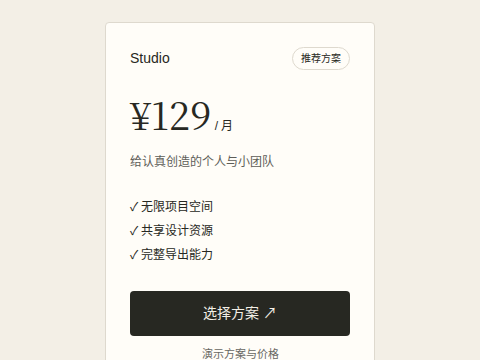
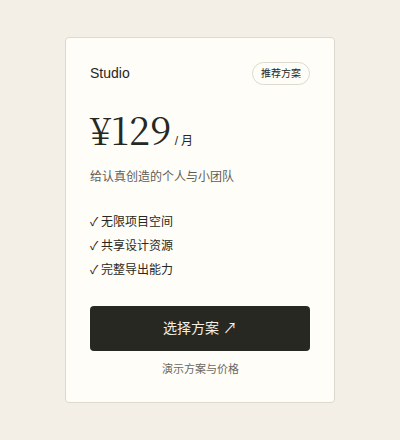
feat: use modular resource cards and responsive experience canvases

diff --git a/app.js b/app.js
@@ -164,11 +164,11 @@ function card(r) {
     r.type === "page"
       ? `${l(getCase(r.caseId).name).split(" · ")[0]} · ${l(r.name)}`
       : l(r.name);
-  return `<article class="asset-card card" data-resource="${key(r)}" data-layout="${inline ? "compact" : "wide"}" data-experience="${framing.mode}" data-cover-layout="${framing.layout}" style="--inline-height:${framing.inlineHeight}px">
+  return `<article class="asset-card card" data-resource="${key(r)}" data-layout="${framing.layout}" data-experience="${framing.mode}" data-cover-layout="${framing.layout}">
   <div class="asset-preview"><img src="${esc(r.cover)}" alt="${esc(name)}" loading="lazy" width="${framing.width}" height="${framing.height}">${inline ? `<div class="asset-live" data-live="${key(r)}"></div><div class="preview-state" role="status"><span>${t("正在加载体验…", "Loading experience…")}</span><button type="button" class="button" data-retry-preview hidden>${t("重试", "Retry")}</button></div>` : `<a class="asset-cover-link" data-open="${key(r)}" href="${href(r.type, r.id)}" aria-label="${t("打开体验", "Open experience")} ${esc(name)}"><span>${icon("arrow-up-right")}${t("打开体验", "Open experience")}</span></a>`}</div>
   <div class="asset-caption"><a data-open="${key(r)}" data-details href="${href(r.type, r.id, { panel: "details" })}">${esc(name)}</a><span class="asset-libraries">${r.libraryIds.map((id) => `<span class="library-badge" title="${esc(libraries[id].name)}">${esc(libraries[id].name)}</span>`).join("")}</span></div>
-  <p class="asset-description" id="description-${r.id}">${esc(l(r.description))}</p>${tagLinks(r)}
-  <div class="asset-actions"><button class="button" data-card-prompt="${key(r)}">${icon("copy")}${t("复制提示词", "Copy prompt")}</button><a class="button" data-open="${key(r)}" data-details href="${href(r.type, r.id, { panel: "details" })}">${t("查看详情", "Details")}</a>${saveButton(r)}</div></article>`;
+  <p class="asset-description" id="description-${r.id}" title="${esc(l(r.description))}">${esc(l(r.description))}</p><div class="asset-footer">${tagLinks(r)}
+  <div class="asset-actions"><button class="icon-button" data-card-prompt="${key(r)}" aria-label="${t("复制提示词", "Copy prompt")}" title="${t("复制提示词", "Copy prompt")}">${icon("copy")}</button><a class="icon-button" data-open="${key(r)}" data-details href="${href(r.type, r.id, { panel: "details" })}" aria-label="${t("查看详情", "Details")}" title="${t("查看详情", "Details")}">${icon("panel-right")}</a>${saveButton(r)}</div></div></article>`;
 }
 function typeCount(v) {
   return v === "explore"
@@ -665,7 +665,7 @@ function viewer(r) {
     parameter[4] = previewValues.get(chosen.id);
   return `<article class="resource-page"><div class="market-viewer full-viewer experience-viewer"><header class="market-viewer-toolbar"><div class="viewer-leading"><button class="icon-button" data-close-viewer aria-label="${t("返回资源市场", "Back to market")}">${icon("arrow-left")}</button><div class="viewer-title"><h1 tabindex="-1">${esc(l(r.type === "case" ? r.name : chosen.name))}</h1><small>${esc(resourceSource(chosen).name)}</small></div>${c && r.type !== "component" ? `<select data-shell-control id="preview-page" aria-label="${t("预览页面", "Preview page")}">${c.pages.map((p) => `<option value="${p.id}" ${p.id === chosen.id ? "selected" : ""}>${esc(l(p.name))}</option>`).join("")}</select>` : ""}</div><div class="viewer-tools"><button class="icon-button" data-share aria-label="${t("复制分享链接", "Copy share link")}">${icon("link")}</button><span data-shell-appearance></span>${language(true)}<button class="icon-button" data-close-viewer aria-label="${t("关闭预览", "Close preview")}">${icon("x")}</button></div></header>
   <div class="experience-actions"><div class="full-resource-tabs" role="tablist" aria-label="${t("资源内容", "Resource content")}"><button data-full-tab data-tab="notes" role="tab" aria-selected="${tab !== "code"}" aria-controls="preview-panel">${t("预览", "Preview")}</button><button data-full-tab data-tab="code" role="tab" aria-selected="${tab === "code"}" aria-controls="full-code">${t("代码", "Code")}</button></div><button class="button" data-toggle-details aria-controls="inspector" aria-expanded="false">${t("详情", "Details")}</button><button class="button" data-copy-resource-prompt>${icon("copy")}${t("复制提示词", "Copy prompt")}</button></div><div class="market-detail-layout"><div class="full-preview-column"><section class="market-preview-panel" id="preview-panel" data-layout="${framing.layout}" style="--stage-height:${framing.stageHeight}px"><div class="preview-toolbar"><span class="preview-label">${t("交互预览", "Live preview")}</span><div class="viewer-devices">${[
-    ["0", "monitor", t("桌面画布", "Desktop canvas")],
+    ["0", "monitor", t("自适应画布", "Responsive canvas")],
     ["768", "tablet", "768px"],
     ["375", "smartphone", "375px"],
   ]
@@ -683,7 +683,7 @@ function viewer(r) {
 function showViewer(r) {
   stopAllLive();
   tab = route.params.get("tab") === "code" ? "code" : "notes";
-  width = innerWidth < 600 ? 375 : innerWidth < 1024 ? 768 : 0;
+  width = 0;
   fit = true;
   document.body.classList.add("is-experience");
   document.querySelector("#footer").hidden = true;
@@ -807,10 +807,9 @@ function scalePreview() {
     frame = document.querySelector("#case-preview"),
     canvas = document.querySelector("#preview-canvas");
   if (!viewport || !selected || !viewport.clientWidth) return;
-  const framing = resourcePresentation(selected, "detail"),
-    isSmall = framing.layout === "compact";
-  const desired =
-    width || (isSmall ? viewport.clientWidth : selected.preview.width);
+  // Default to the available viewport at native scale. Only an explicit
+  // device selection emulates a fixed CSS width and may scale down to fit.
+  const desired = width || viewport.clientWidth;
   const scale = fit ? Math.min(1, viewport.clientWidth / desired) : 1;
   // The iframe owns content scrolling. Its scaled height fits the available stage.
   const h = viewport.clientHeight / scale;

diff --git a/market.css b/market.css
@@ -2872,6 +2872,8 @@ dialog {
 
 /* Interactive resource gallery. Information and actions never cover the demo. */
 .library-page .market-grid {
+  container-type: inline-size;
+  --preview-unit: calc((100cqw - 24px) / 3);
   grid-template-columns: repeat(3, minmax(0, 1fr));
   align-items: start;
 }
@@ -2882,10 +2884,7 @@ dialog {
   width: 100%;
   min-width: 0;
   aspect-ratio: auto;
-  height: 360px;
-}
-.library-page .asset-card[data-experience="inline"] .asset-preview {
-  height: var(--inline-height);
+  height: var(--preview-unit);
 }
 .library-page .asset-preview > img {
   object-fit: contain;
@@ -2937,10 +2936,11 @@ dialog {
 }
 .library-page .asset-description {
   opacity: 1;
-  min-height: 40px;
-  height: 40px;
+  min-height: 20px;
+  height: 20px;
   line-height: 20px;
-  margin: 8px 2px;
+  margin: 4px 2px 6px;
+  -webkit-line-clamp: 1;
 }
 .resource-tags {
   display: flex;
@@ -2958,13 +2958,15 @@ dialog {
   border-radius: 999px;
   color: var(--muted-text);
 }
-.asset-card > .resource-tags {
+.asset-footer > .resource-tags {
   flex-wrap: nowrap;
+  align-items: center;
+  min-width: 0;
   height: 32px;
   overflow-x: auto;
   scrollbar-width: none;
 }
-.asset-card > .resource-tags a {
+.asset-footer > .resource-tags a {
   flex-shrink: 0;
   white-space: nowrap;
 }
@@ -2972,46 +2974,65 @@ dialog {
   color: var(--ink);
   background: var(--surface);
 }
+.asset-footer {
+  display: flex;
+  align-items: center;
+  justify-content: space-between;
+  gap: 8px;
+  height: 36px;
+}
+.asset-footer .resource-tags a {
+  min-height: 24px;
+  padding: 2px 6px;
+}
 .asset-actions {
   display: flex;
-  gap: 6px;
+  gap: 2px;
   align-items: center;
-  margin-top: 10px;
-  height: 44px;
+  flex-shrink: 0;
 }
-.asset-actions .button {
-  font-size: 12px;
-  padding-inline: 9px;
-  min-height: 36px;
-  white-space: nowrap;
-}
+.asset-actions .icon-button,
 .asset-actions .asset-save {
   position: static;
   opacity: 1;
-  margin-left: auto;
+  margin: 0;
   flex-shrink: 0;
-  width: 36px;
-  height: 36px;
-  min-width: 36px;
-  min-height: 36px;
+  width: 32px;
+  height: 32px;
+  min-width: 32px;
+  min-height: 32px;
+  border: 0;
+  background: transparent;
+}
+.asset-actions .icon-button:hover,
+.asset-actions .asset-save:hover {
+  background: var(--surface);
 }
 #inspector > .resource-tags {
   padding: 0 20px 16px;
 }
 @media (max-width: 1199px) {
   .library-page .market-grid {
+    --preview-unit: calc((100cqw - 12px) / 2);
     grid-template-columns: repeat(2, minmax(0, 1fr));
   }
 }
 @media (max-width: 599px) {
   .library-page .market-grid {
+    --preview-unit: 100cqw;
     grid-template-columns: minmax(0, 1fr);
   }
   .library-page .asset-card[data-layout="wide"] {
     grid-column: auto;
   }
-  .asset-actions .button,
+  .asset-footer {
+    height: 44px;
+  }
+  .asset-actions .icon-button,
   .asset-actions .asset-save {
+    width: 44px;
+    height: 44px;
+    min-width: 44px;
     min-height: 44px;
   }
 }

diff --git a/presentation.js b/presentation.js
@@ -1,6 +1,7 @@
 import discovery from "./content/discovery.json" with { type: "json" };
 // Capability overrides describe demo space, not the upstream component's type.
 const canvasComponents = new Set([
+  "folio-card",
   "fluent-dialog",
   "fluent-toast",
   "antd-form",
@@ -9,12 +10,14 @@ const canvasComponents = new Set([
   "shadcn-admin-user-dialog",
   "shadcn-admin-settings-form",
   "shadcn-admin-filter-toolbar",
+  "shadcn-admin-trend-chart",
 ]);
 export function experienceMode(resource) {
   if (resource.preview.mode) return resource.preview.mode;
   return resource.type !== "component" ||
     resource.preview.width >= 900 ||
     canvasComponents.has(resource.id) ||
+    resource.kind === "pricing" ||
     resource.kind === "dialog" ||
     resource.id.endsWith("-dialog")
     ? "canvas"
@@ -27,18 +30,24 @@ export function resourcePresentation(resource, context = "card") {
   const mode = experienceMode(resource);
   const canvasCard = context === "card" && mode === "canvas";
   const control = !wide && resource.category === "buttons";
+  const tallCard = resource.kind === "pricing" || resource.id === "folio-card";
+  const canvasWidth = tallCard
+    ? 400
+    : resource.id === "shadcn-admin-trend-chart"
+      ? 640
+      : 960;
+  const canvasHeight = tallCard
+    ? 440
+    : resource.id === "shadcn-admin-trend-chart"
+      ? 480
+      : 640;
   return {
     mode,
-    inlineHeight:
-      resource.category === "cards" ||
-      resource.id === "shadcn-admin-trend-chart"
-        ? 440
-        : 360,
     layout: wide ? "wide" : "compact",
     width: wide
       ? resource.preview.width
       : canvasCard
-        ? 960
+        ? canvasWidth
         : control && context === "card"
           ? 320
           : context === "card"
@@ -47,7 +56,7 @@ export function resourcePresentation(resource, context = "card") {
     height: wide
       ? resource.preview.height
       : canvasCard
-        ? 640
+        ? canvasHeight
         : control && context === "card"
           ? 240
           : context === "card"

diff --git a/components.css b/components.css
@@ -4,6 +4,7 @@
 .theme-forma{--s-bg:#f3f3ef;--s-surface:#fff;--s-text:#191b18;--s-accent:#d2ed4e;--s-line:#c4c6be;--s-radius:0px;--s-on:#191b18;--s-font:Arial,Helvetica,sans-serif}
 .theme-bloom{--s-bg:#f7f5ed;--s-surface:#fffef9;--s-text:#244536;--s-accent:#305744;--s-line:#dce1d5;--s-radius:18px;--s-on:#fff;--s-font:Georgia,serif}
 .sample{background:var(--s-bg);color:var(--s-text);padding:32px;min-height:230px;display:flex;align-items:center;justify-content:center;font:14px/1.5 'Segoe UI','Microsoft YaHei',sans-serif;width:100%;box-sizing:border-box}
+.inline-preview .sample{padding:12px}
 .sample *{box-sizing:border-box}.sample button,.sample input{font:inherit}.sample button,.sample a{touch-action:manipulation}.sample button{cursor:pointer}.sample a{color:inherit}.sample :focus-visible{outline:2px solid var(--s-accent);outline-offset:4px}
 .s-button{display:inline-flex;align-items:center;justify-content:center;gap:16px;border:1px solid transparent;background:var(--s-accent);color:var(--s-on);border-radius:var(--s-radius);padding:11px 18px;min-height:42px;white-space:nowrap;text-decoration:none;font:inherit;transition:filter .16s,transform .16s}
 .theme-folio .s-button{background:var(--s-text);color:var(--s-bg)}.theme-bloom .s-button{border-radius:999px}.s-button:hover:not(:disabled){filter:brightness(1.08);transform:translateY(-1px)}.s-button:active:not(:disabled){transform:translateY(1px)}.s-button:disabled{opacity:.4;cursor:not-allowed}

diff --git a/component-preview.js b/component-preview.js
@@ -6,6 +6,7 @@ import { observeLegacy, translateLegacyString as tr } from "./legacy-i18n.js";
 const params = new URLSearchParams(location.search),
   lang = params.get("lang") === "en" ? "en" : "zh-CN",
   item = getComponent(params.get("id"));
+document.body.classList.toggle("inline-preview", params.has("inline"));
 document.documentElement.lang = lang;
 const root = document.getElementById("root");
 if (item) {

diff --git a/README.md b/README.md
@@ -9,6 +9,8 @@ Find a UI effect, component, block or system; try it and take its notes, prompts
 
 - 首页按资源展示；支持动效、组件、区块、页面和完整案例，以及用途、组件库、风格和交互筛选。
 - 紧凑组件在卡片中直接体验；卡片外提供提示词复制、用途/交互/风格标签、详情和收藏。大资源打开独立宽屏体验页，默认收起说明；返回恢复筛选、加载数量、滚动位置和入口焦点。
+- 预览以列宽为正方形单元：紧凑资源 `1×1`，宽资源 `2×1`（含列间距），手机统一一列。卡片保留一行介绍，标签与带无障碍名称的操作图标共用底栏；完整说明与标签可在详情查看。无法完整放入手机单元的定价卡、趋势图和较高卡片使用静态概览入口。
+- 宽屏体验默认按实际可用宽度原生排版，切换平板或手机后才使用固定设备宽度。适应宽度、全屏、源码及演示内部滚动继续保留。
 - 搜索支持中英文和组件库别名，例如“流光边框”“微软”“Fluent”“antd”；列表与快速搜索按名称精确匹配、名称包含、别名/标签及描述排序，同等相关度保持原顺序。
 - 独立资源无需所属系统。原有案例、页面、组件 ID 和收藏备份保持兼容。
 - 可见小组件按需加载，同时最多保留八个实时 iframe；焦点所在演示不会因离屏被回收。大资源使用实际本地演示生成的静态封面。
@@ -20,6 +22,8 @@ The marketplace ranks bilingual search by exact name, name match, aliases/tags a
 
 图鉴外层以固定版本 21st 源码为设计基线，使用开放式资源画廊：轻量吸顶导航、可清除筛选标签、紧凑组件与宽页面分尺寸陈列。详情提供真实预览、360px 说明栏、提示词、源码和原有动效参数。
 The shell adapts a pinned 21st design reference into an open resource gallery, with document scrolling, removable filters, compact/wide previews and a 360px detail inspector. Archived interfaces retain their own styles and themes.
+
+Gallery previews use a square column-sized unit, with wide resources spanning two columns at the same height. Captions, a one-line description, filter tags and accessible icon actions sit outside the preview. Tall demos open from static overviews. The experience viewer uses its available width at native scale by default; explicit tablet/phone selections retain fixed device widths.
 
 查看 [设计映射与浏览器验收 / Design mapping and verification](docs/ui/resource-market.md) 和 [固定源码与许可 / Pinned source and attribution](vendor/21st-market/ATTRIBUTION.md)。此前映序设计资料保留为历史记录，不参与外层运行样式。
 
